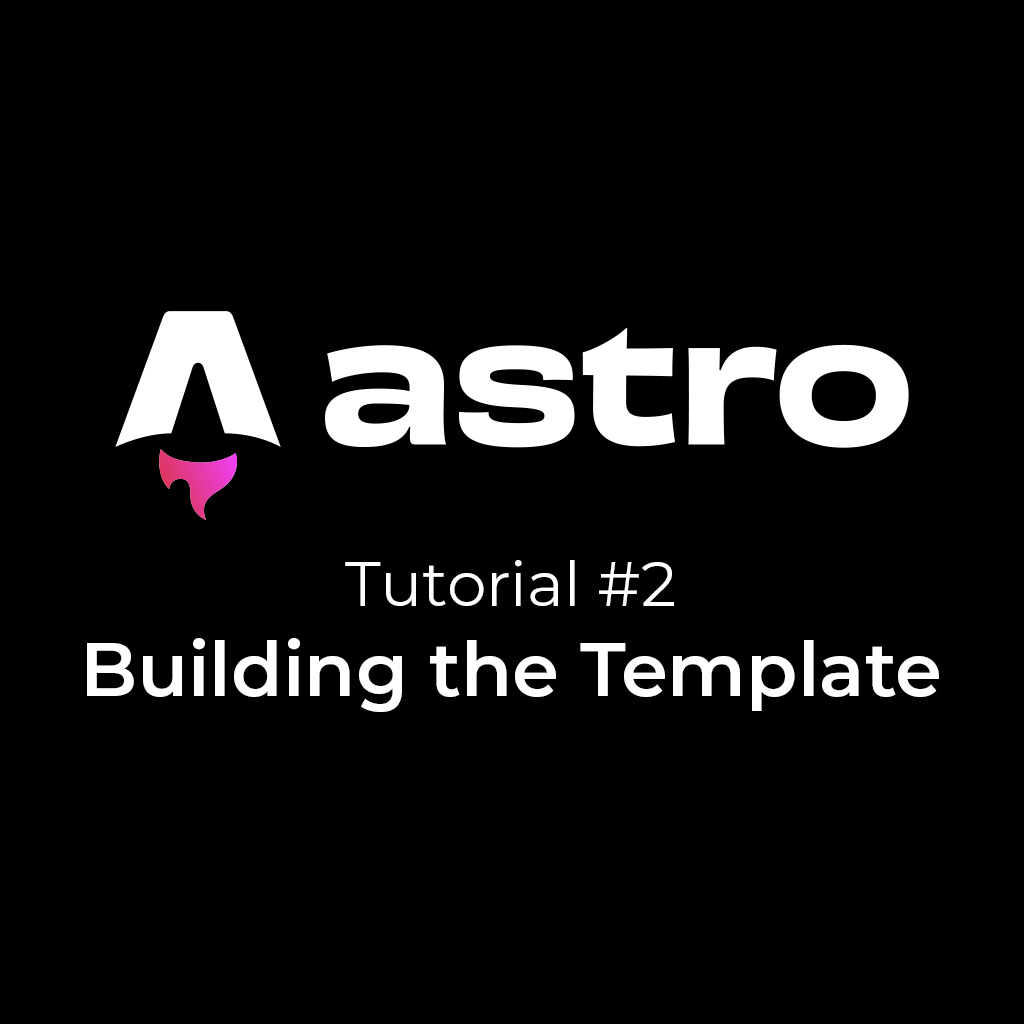
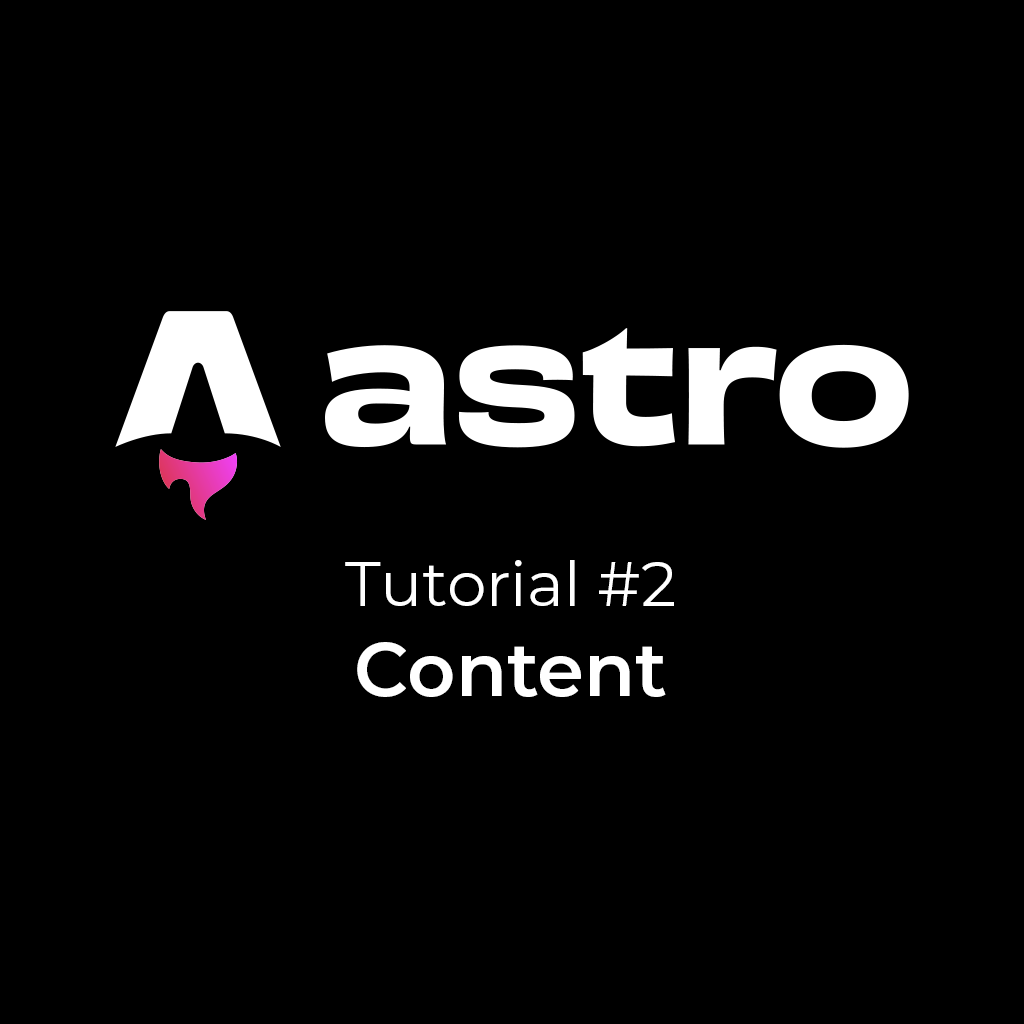
Done with the second tutorial

Changed region(s): [[0.0625, 0.625, 0.9375, 0.7188]]

diff --git a/src/pages/posts/mastering-astro-02.md b/src/pages/posts/mastering-astro-02.md
@@ -1,9 +1,103 @@
 ---
 layout: "./../../layouts/post.layout.astro"
-title: "Mastering Astro #2: Template"
+title: "Mastering Astro #2: Details Page"
 date: "2024-01-10 13:30:00"
 description: "Delve into an in-depth tutorial for experienced developers to navigate Astro, exploring optimal setups, command-line workflows, and project structuring. Elevate your web development skills with Astro's powerful capabilities."
 keywords: "Astro, Web Development, Advanced Tutorial, VS Code, JavaScript, Project Setup, Command-line Workflow, NPM Dependencies, Git Repository, Markdown"
 images:
-  [{ url: "mastering-astro-0002.png", alt: "Mastering Astro #2: Template" }]
+  [{ url: "mastering-astro-0002.png", alt: "Mastering Astro #2: Details Page" }]
 ---
+
+Let's get started on some coding! We'll build the `HTML` template in this part of the series. It will look ugly initially, and we will use `CSS` to make it look good.
+
+Open your project in **VS Code**.
+
+Open the **VS Code Terminal** by clicking on the menu item at the top.
+
+> **Tip:** keyboard shortcut for this is `[Cntrl + (Tilde)]`. It's the key on the left of the "1" key.
+
+Run the following command:
+
+```bash
+npm run dev
+```
+
+Note the **output** in the terminal. Hold [Cntrl] and click on http://localhost:4321/.<br>
+This will open the Astro site in the web browser
+
+> **Tip:** Open the `package.json` file.<br>
+> The' scripts' section lists the scripts you can run.<br>
+> Command format: npm run `<script_name>`
+
+We're going to build a food blog. So, gather some photos of your favourite food. 3 posts with 4 pictures each.
+
+> **Tip:** You take free images from [Pexels](https://www.pexels.com/) or [Unsplash](https://unsplash.com/).
+
+We need to adjust our folder structure to accommodate our photos.
+
+So create a folder `/assets` and an `/images` subfolder in the `/src`. Put all your images in this `/images` folder.
+
+> **Tip:** I recommend naming your images like so: `dashed-post-name-1.jpg`<br>
+> So if your post is "Hokkien Mee", then name your images like this: hokkien-mee-1.jpg, hokkien-mee-2.jpg, etc.
+
+Open up `index.astro`. This requires some basic knowledge of `HTML`.
+
+Change the `title` to whatever you want. I'm going to use "My Favourite Food".
+
+Replace the `body` with the following code. Change `apple-pie-xxxx.jpg` to images. Go to your browser to see if everything's working fine. Don't worry if it looks terrible. We'll fix it in the following tutorial.
+
+```html
+<header>
+  <h1>My Favourite Food</h1>
+
+  <a href="/">Home</a>
+</header>
+
+<div>
+  <div>
+    <div>
+      <img src="/src/assets/images/apple-pie-0001.jpg" alt="" srcset="" />
+      <img src="/src/assets/images/apple-pie-0002.jpg" alt="" srcset="" />
+      <img src="/src/assets/images/apple-pie-0003.jpg" alt="" srcset="" />
+      <img src="/src/assets/images/apple-pie-0004.jpg" alt="" srcset="" />
+    </div>
+
+    <h2>Post Title</h2>
+
+    <p>Rating: 5</p>
+    <p>Location: Bedok, Singapore</p>
+  </div>
+
+  <div>
+    <div>
+      <img src="/src/assets/images/apple-pie-0001.jpg" alt="" srcset="" />
+      <img src="/src/assets/images/apple-pie-0002.jpg" alt="" srcset="" />
+      <img src="/src/assets/images/apple-pie-0003.jpg" alt="" srcset="" />
+      <img src="/src/assets/images/apple-pie-0004.jpg" alt="" srcset="" />
+    </div>
+
+    <h2>Post Title</h2>
+
+    <p>Rating: 5</p>
+    <p>Location: Bedok, Singapore</p>
+  </div>
+
+  <div>
+    <div>
+      <img src="/src/assets/images/apple-pie-0001.jpg" alt="" srcset="" />
+      <img src="/src/assets/images/apple-pie-0002.jpg" alt="" srcset="" />
+      <img src="/src/assets/images/apple-pie-0003.jpg" alt="" srcset="" />
+      <img src="/src/assets/images/apple-pie-0004.jpg" alt="" srcset="" />
+    </div>
+
+    <h2>Post Title</h2>
+
+    <p>Rating: 5</p>
+    <p>Location: Bedok, Singapore</p>
+  </div>
+</div>
+
+<footer>
+  <p>My Favourite Food &copy; Davina Leong, 2024</p>
+</footer>
+```
